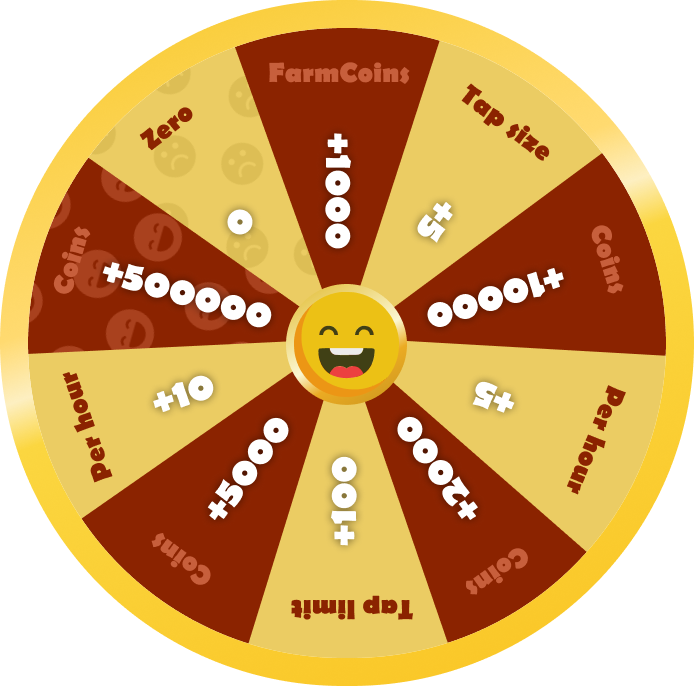
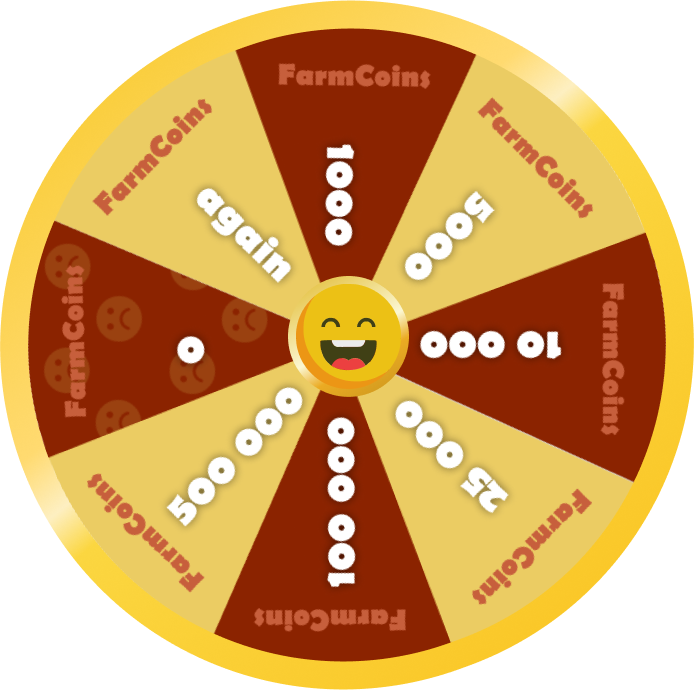
58

diff --git a/src/components/Wheel/Wheel.tsx b/src/components/Wheel/Wheel.tsx
@@ -26,20 +26,18 @@ const Wheel = () => {
    const [isSpinning, setIsSpinning] = useState(false);
    const [step, setStep] = useState(1);
    const user = useAppSelector((state: RootState) => state.user.user);
-
+  
 
    const sectors = [
-       { name: "Sector 1", weight: 91, reward: 1000 },
-       { name: "Sector 2", weight: 1, reward: 3000 },
-       { name: "Sector 3", weight: 1, reward: 5000 },
-       { name: "Sector 4", weight: 1, reward: 10000 },
-       { name: "Sector 5", weight: 1, reward: 25000 },
-       { name: "Sector 6", weight: 1, reward: 100000 },
-       { name: "Sector 7", weight: 1, reward: 500000 },
-       { name: "Sector 8", weight: 1, reward: 0 }, // "Еще одно вращение"
-       { name: "Sector 9", weight: 1, reward: 0 }, // "100$"
-       { name: "Sector 10", weight: 1, reward: 0 } // "0"
-   ];
+    { name: "Sector 1", weight: 25, reward: 1000 }, // Самая высокая вероятность
+    { name: "Sector 2", weight: 20, reward: 5000 },
+    { name: "Sector 3", weight: 10, reward: 10000 },
+    { name: "Sector 4", weight: 5, reward: 25000 },
+    { name: "Sector 5", weight: 4.9, reward: 100000 },
+    { name: "Sector 6", weight: 0.1, reward: 500000 }, 
+    { name: "Sector 7", weight: 20, reward: 0 }, // Высокая вероятность
+    { name: "Sector 8", weight: 15, reward: 0 }, // Высокая вероятность
+];
   
    const getRandomSector = () => {
     const totalWeight = sectors.reduce((total, sector) => total + sector.weight, 0);
@@ -73,11 +71,16 @@ const spin = () => {
 
     const sectorIndex = getRandomSector();
     const sectorAngle = 360 / sectors.length;
-    const targetAngle = sectorIndex * sectorAngle + sectorAngle / 2;
+    // const targetAngle = sectorIndex * sectorAngle + sectorAngle / 2;
 
-    const spins = Math.floor(Math.random() * 3) + 5; // случайное количество оборотов от 5 до 7
-    const finalAngle = rotation + spins * 360 + targetAngle;
+    // const spins = Math.floor(Math.random() * 3) + 5; // случайное количество оборотов от 5 до 7
+    // const finalAngle = rotation + spins * 360 + targetAngle;
+// Добавляем случайное смещение внутри угла сектора
+const randomOffset = Math.random() * sectorAngle;
+const targetAngle = sectorIndex * sectorAngle + randomOffset;
 
+const spins = Math.floor(Math.random() * 3) + 5; // случайное количество оборотов от 5 до 7
+const finalAngle = rotation + spins * 360 + targetAngle;
     setIsSpinning(true);
     setRotation(finalAngle);
 
